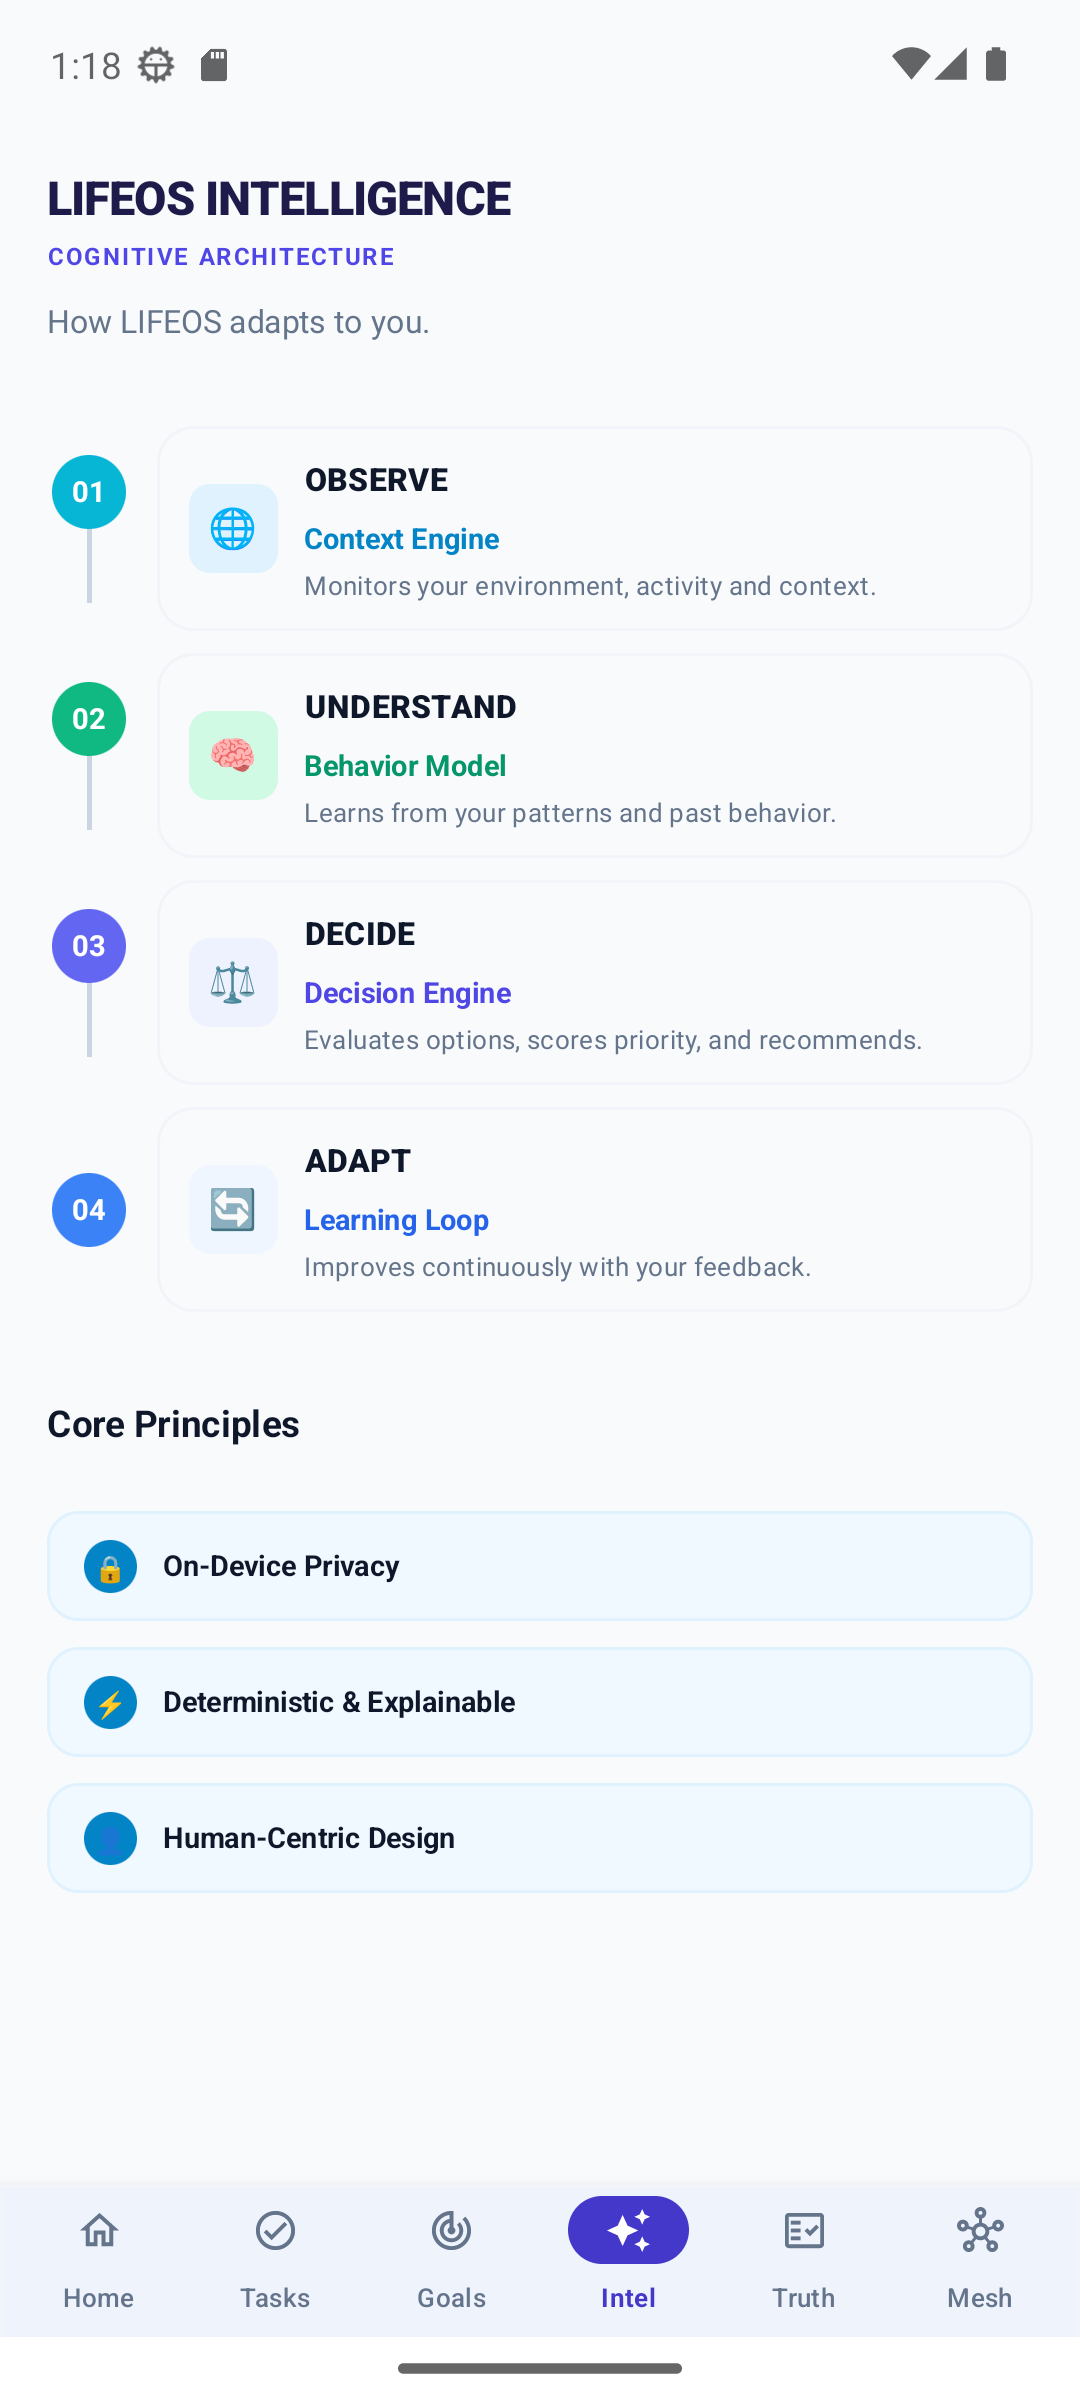
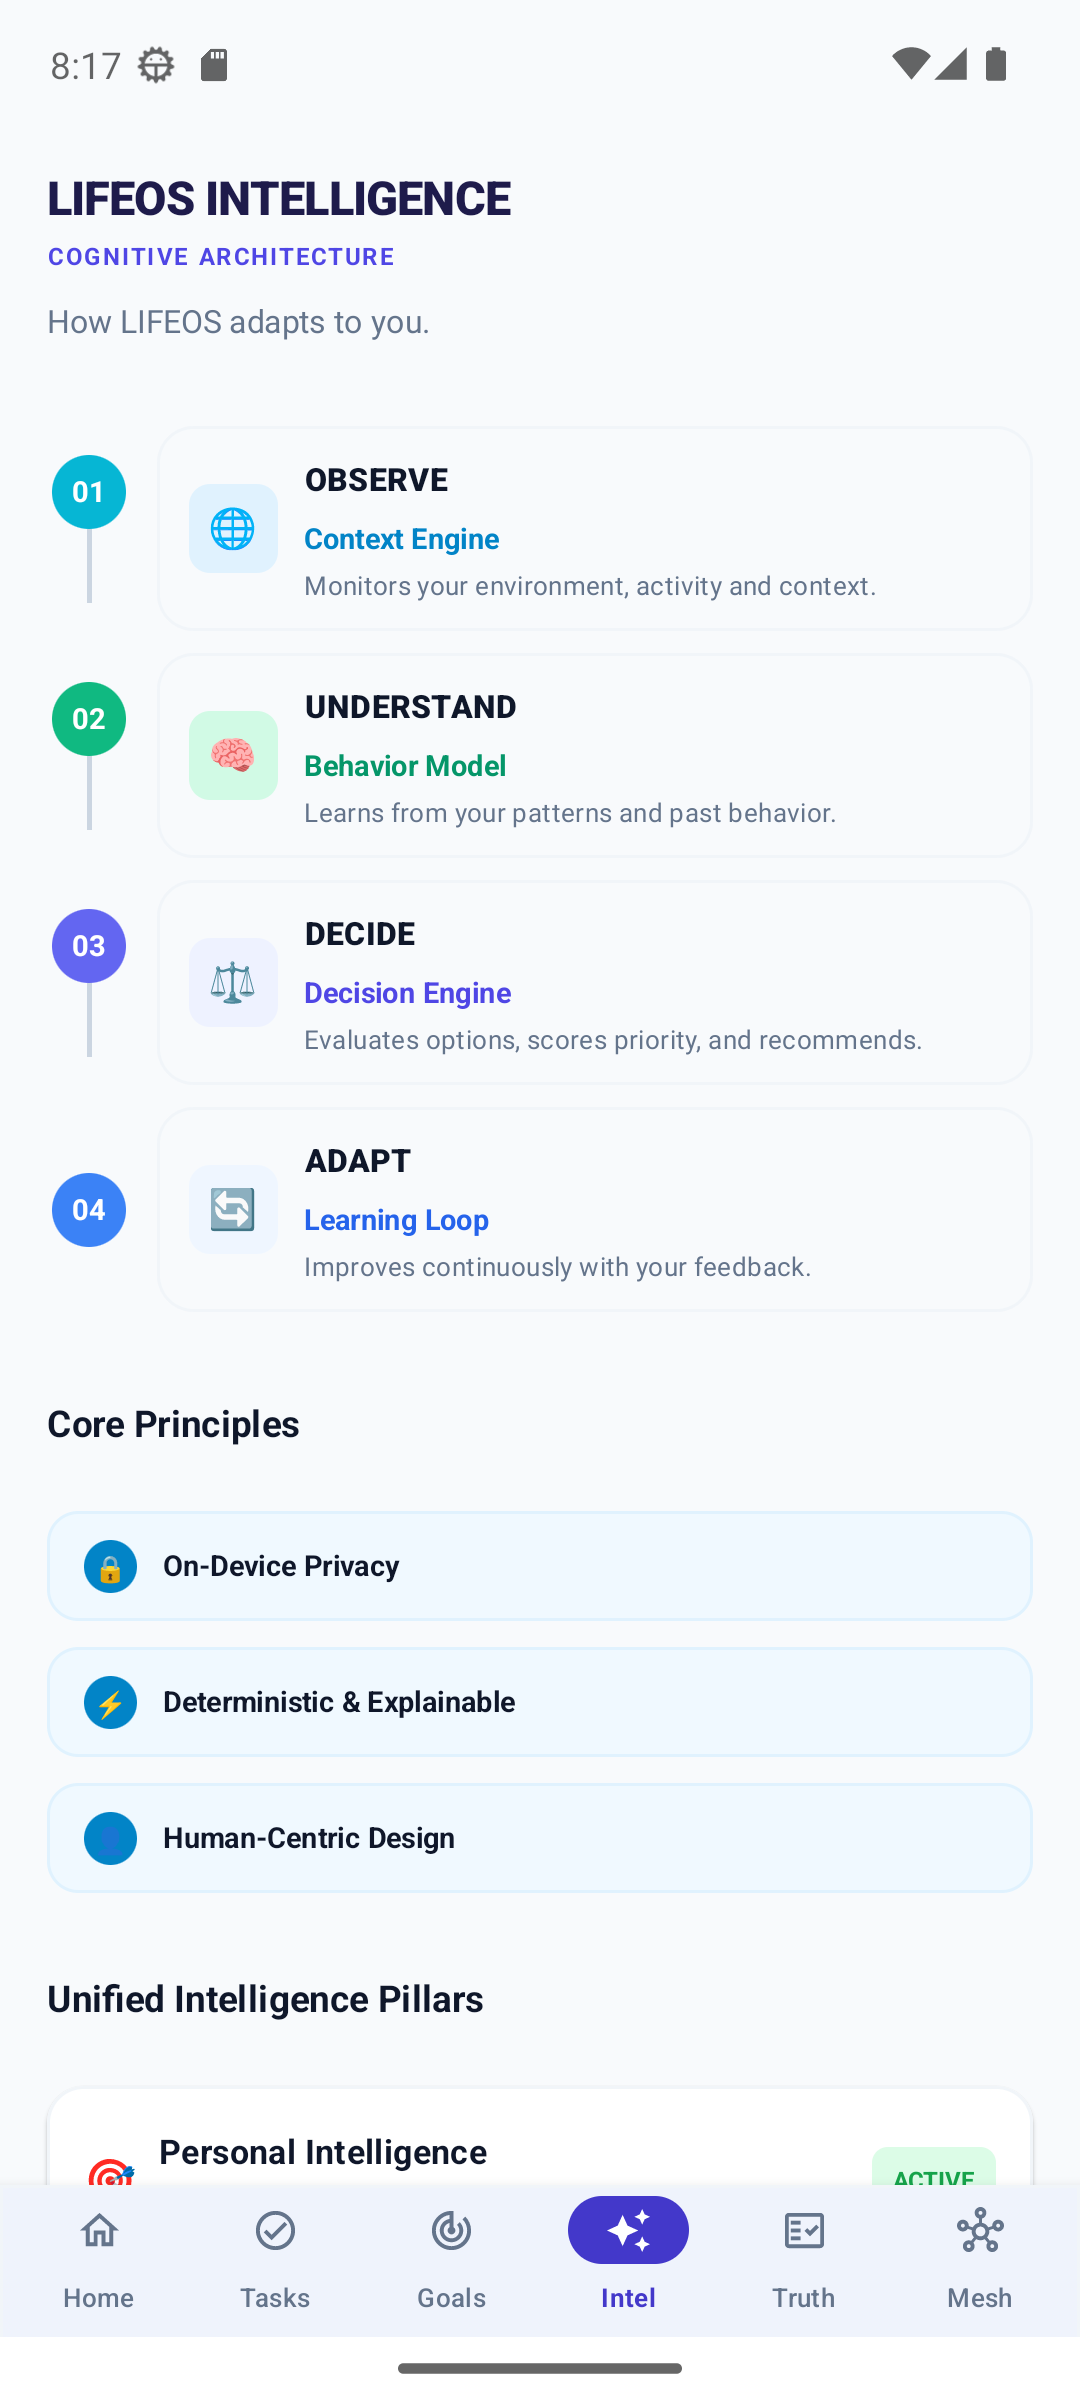
feat: unify LIFEOS intelligence experience and polish UI

diff --git a/app/src/main/java/com/mrashish18/lifeos/feature/goals/GoalsScreen.kt b/app/src/main/java/com/mrashish18/lifeos/feature/goals/GoalsScreen.kt
@@ -105,37 +105,100 @@ fun GoalsScreen(modifier: Modifier = Modifier) {
             }
         }
 
-        // 3. Strategic Objectives Cards matching Screen 4 reference
-        ReferenceGoalCard(
-            title = "Adaptive Autonomous Productivity",
-            tag = "Q4 2026",
-            tagBg = Color(0xFFDCFCE7),
-            tagColor = Color(0xFF16A34A),
-            description = "Turn daily execution into long-term compounding growth.",
-            progress = 0.30f
-        )
+        // 3. Strategic Objectives Cards matching Screen 4 reference with reactive filtering
+        val goals = remember {
+            listOf(
+                GoalItem(
+                    id = "goal_1",
+                    title = "Adaptive Autonomous Productivity",
+                    tag = "Q4 2026",
+                    tagBg = Color(0xFFDCFCE7),
+                    tagColor = Color(0xFF16A34A),
+                    description = "Turn daily execution into long-term compounding growth.",
+                    progress = 0.30f,
+                    isCompleted = false,
+                    milestones = "2 / 6 milestones"
+                ),
+                GoalItem(
+                    id = "goal_2",
+                    title = "Circadian Rhythm & Workload Pacing",
+                    tag = "Continuous",
+                    tagBg = Color(0xFFEFF6FF),
+                    tagColor = Color(0xFF2563EB),
+                    description = "Maintain healthy balance and prevent burnout.",
+                    progress = 0.60f,
+                    isCompleted = false,
+                    milestones = "3 / 5 milestones"
+                ),
+                GoalItem(
+                    id = "goal_3",
+                    title = "Deep Work Focus Habituation",
+                    tag = "Ongoing",
+                    tagBg = Color(0xFFF1F5F9),
+                    tagColor = Color(0xFF64748B),
+                    description = "Build consistent, distraction-free focus sessions.",
+                    progress = 0.20f,
+                    isCompleted = false,
+                    milestones = "1 / 5 milestones"
+                ),
+                GoalItem(
+                    id = "goal_4",
+                    title = "Core Architecture Baseline",
+                    tag = "Delivered",
+                    tagBg = Color(0xFFDCFCE7),
+                    tagColor = Color(0xFF16A34A),
+                    description = "Room persistence, Context Engine, and Decision Engine baseline established.",
+                    progress = 1.0f,
+                    isCompleted = true,
+                    milestones = "5 / 5 milestones"
+                ),
+                GoalItem(
+                    id = "goal_5",
+                    title = "Store-and-Forward Mesh Hardening",
+                    tag = "Delivered",
+                    tagBg = Color(0xFFDCFCE7),
+                    tagColor = Color(0xFF16A34A),
+                    description = "Hop-limited emergency mesh routing with deterministic deduplication.",
+                    progress = 1.0f,
+                    isCompleted = true,
+                    milestones = "4 / 4 milestones"
+                )
+            )
+        }
 
-        ReferenceGoalCard(
-            title = "Circadian Rhythm & Workload Pacing",
-            tag = "Continuous",
-            tagBg = Color(0xFFEFF6FF),
-            tagColor = Color(0xFF2563EB),
-            description = "Maintain healthy balance and prevent burnout.",
-            progress = 0.60f
-        )
+        val filteredGoals = when (selectedFilter) {
+            "Active" -> goals.filter { !it.isCompleted }
+            "Completed" -> goals.filter { it.isCompleted }
+            else -> goals
+        }
 
-        ReferenceGoalCard(
-            title = "Deep Work Focus Habituation",
-            tag = "Ongoing",
-            tagBg = Color(0xFFF1F5F9),
-            tagColor = Color(0xFF64748B),
-            description = "Build consistent, distraction-free focus sessions.",
-            progress = 0.20f
-        )
+        filteredGoals.forEach { goal ->
+            ReferenceGoalCard(
+                title = goal.title,
+                tag = goal.tag,
+                tagBg = goal.tagBg,
+                tagColor = goal.tagColor,
+                description = goal.description,
+                progress = goal.progress,
+                milestones = goal.milestones
+            )
+        }
 
         Spacer(modifier = Modifier.height(48.dp))
     }
 }
+
+private data class GoalItem(
+    val id: String,
+    val title: String,
+    val tag: String,
+    val tagBg: Color,
+    val tagColor: Color,
+    val description: String,
+    val progress: Float,
+    val isCompleted: Boolean,
+    val milestones: String
+)
 
 @Composable
 private fun ReferenceGoalCard(
@@ -144,7 +207,8 @@ private fun ReferenceGoalCard(
     tagBg: Color,
     tagColor: Color,
     description: String,
-    progress: Float
+    progress: Float,
+    milestones: String? = null
 ) {
     Surface(
         modifier = Modifier.fillMaxWidth(),
@@ -164,19 +228,34 @@ private fun ReferenceGoalCard(
 
             Spacer(modifier = Modifier.height(4.dp))
 
-            // Tag Pill
-            Box(
-                modifier = Modifier
-                    .clip(RoundedCornerShape(6.dp))
-                    .background(tagBg)
-                    .padding(horizontal = 7.dp, vertical = 2.dp)
+            // Tag Pill & Milestone Row
+            Row(
+                modifier = Modifier.fillMaxWidth(),
+                horizontalArrangement = Arrangement.SpaceBetween,
+                verticalAlignment = Alignment.CenterVertically
             ) {
-                Text(
-                    text = tag,
-                    fontSize = 9.sp,
-                    fontWeight = FontWeight.Bold,
-                    color = tagColor
-                )
+                Box(
+                    modifier = Modifier
+                        .clip(RoundedCornerShape(6.dp))
+                        .background(tagBg)
+                        .padding(horizontal = 7.dp, vertical = 2.dp)
+                ) {
+                    Text(
+                        text = tag,
+                        fontSize = 9.sp,
+                        fontWeight = FontWeight.Bold,
+                        color = tagColor
+                    )
+                }
+
+                milestones?.let { ms ->
+                    Text(
+                        text = ms,
+                        fontSize = 10.sp,
+                        fontWeight = FontWeight.Medium,
+                        color = Color(0xFF94A3B8)
+                    )
+                }
             }
 
             Spacer(modifier = Modifier.height(6.dp))

diff --git a/app/src/main/java/com/mrashish18/lifeos/feature/intelligence/IntelligenceScreen.kt b/app/src/main/java/com/mrashish18/lifeos/feature/intelligence/IntelligenceScreen.kt
@@ -248,9 +248,116 @@ fun IntelligenceScreen(modifier: Modifier = Modifier) {
             }
         }
 
+        Spacer(modifier = Modifier.height(10.dp))
+
+        // Unified Intelligence Pillars
+        Text(
+            text = "Unified Intelligence Pillars",
+            fontSize = 14.sp,
+            fontWeight = FontWeight.Bold,
+            color = Color(0xFF0F172A)
+        )
+
+        Spacer(modifier = Modifier.height(2.dp))
+
+        listOf(
+            PillarData(
+                icon = "🎯",
+                title = "Personal Intelligence",
+                subtitle = "Cognitive Optimization",
+                description = "Closed-loop adaptation: Context + Behavior + Decision Engine with deterministic explainability.",
+                badge = "ACTIVE",
+                badgeBg = Color(0xFFDCFCE7),
+                badgeColor = Color(0xFF16A34A)
+            ),
+            PillarData(
+                icon = "🛡",
+                title = "Trust Intelligence",
+                subtitle = "RealityCheck Engine",
+                description = "10-stage mathematical claim verification separating authoritative fact from inference.",
+                badge = "STANDBY",
+                badgeBg = Color(0xFFEEF2FF),
+                badgeColor = Color(0xFF4338CA)
+            ),
+            PillarData(
+                icon = "📡",
+                title = "Resilience Intelligence",
+                subtitle = "RescueMesh Offline Comms",
+                description = "Hop-limited store-and-forward mesh propagation when network infrastructure fails.",
+                badge = "ARMED",
+                badgeBg = Color(0xFFFEF3C7),
+                badgeColor = Color(0xFFD97706)
+            )
+        ).forEach { pillar ->
+            Surface(
+                modifier = Modifier.fillMaxWidth(),
+                shape = RoundedCornerShape(14.dp),
+                color = Color.White,
+                border = androidx.compose.foundation.BorderStroke(1.dp, Color(0xFFF1F5F9)),
+                shadowElevation = 1.dp
+            ) {
+                Column(modifier = Modifier.padding(14.dp)) {
+                    Row(
+                        modifier = Modifier.fillMaxWidth(),
+                        horizontalArrangement = Arrangement.SpaceBetween,
+                        verticalAlignment = Alignment.CenterVertically
+                    ) {
+                        Row(verticalAlignment = Alignment.CenterVertically) {
+                            Text(text = pillar.icon, fontSize = 16.sp)
+                            Spacer(modifier = Modifier.width(8.dp))
+                            Column {
+                                Text(
+                                    text = pillar.title,
+                                    fontSize = 13.sp,
+                                    fontWeight = FontWeight.Bold,
+                                    color = Color(0xFF0F172A)
+                                )
+                                Text(
+                                    text = pillar.subtitle,
+                                    fontSize = 10.sp,
+                                    fontWeight = FontWeight.SemiBold,
+                                    color = Color(0xFF6366F1)
+                                )
+                            }
+                        }
+                        Box(
+                            modifier = Modifier
+                                .clip(RoundedCornerShape(6.dp))
+                                .background(pillar.badgeBg)
+                                .padding(horizontal = 8.dp, vertical = 2.dp)
+                        ) {
+                            Text(
+                                text = pillar.badge,
+                                fontSize = 9.sp,
+                                fontWeight = FontWeight.Bold,
+                                color = pillar.badgeColor
+                            )
+                        }
+                    }
+                    Spacer(modifier = Modifier.height(6.dp))
+                    Text(
+                        text = pillar.description,
+                        fontSize = 11.sp,
+                        color = Color(0xFF64748B),
+                        lineHeight = 15.sp
+                    )
+                }
+            }
+        }
+
         Spacer(modifier = Modifier.height(48.dp))
     }
 }
+
+private data class PillarData(
+    val icon: String,
+    val title: String,
+    val subtitle: String,
+    val description: String,
+    val badge: String,
+    val badgeBg: Color,
+    val badgeColor: Color
+)
 
 private data class StageData(
     val num: String,

diff --git a/app/src/main/java/com/mrashish18/lifeos/feature/dashboard/DashboardScreen.kt b/app/src/main/java/com/mrashish18/lifeos/feature/dashboard/DashboardScreen.kt
@@ -97,6 +97,11 @@ fun DashboardScreen(
             )
         }
 
+        // Cross-Pillar Guardian Telemetry
+        item {
+            IntelligencePillarsStrip()
+        }
+
         // 3. FLAGSHIP CENTERPIECE: WHAT MATTERS NOW
         if (uiState.recommendations.isNotEmpty()) {
             items(uiState.recommendations, key = { it.id }) { rec ->
@@ -353,6 +358,74 @@ private fun TodayMomentumCluster(
                         .clip(CircleShape)
                         .background(Color(0xFF4338CA))
                 )
+            }
+        }
+    }
+}
+
+@Composable
+private fun IntelligencePillarsStrip() {
+    Row(
+        modifier = Modifier.fillMaxWidth(),
+        horizontalArrangement = Arrangement.spacedBy(8.dp)
+    ) {
+        Surface(
+            modifier = Modifier.weight(1f),
+            shape = RoundedCornerShape(10.dp),
+            color = Color.White,
+            border = androidx.compose.foundation.BorderStroke(1.dp, Color(0xFFF1F5F9))
+        ) {
+            Row(
+                modifier = Modifier.padding(horizontal = 10.dp, vertical = 7.dp),
+                verticalAlignment = Alignment.CenterVertically
+            ) {
+                Text(text = "🛡", fontSize = 12.sp)
+                Spacer(modifier = Modifier.width(6.dp))
+                Column {
+                    Text(
+                        text = "TRUTH ENGINE",
+                        fontSize = 8.sp,
+                        fontWeight = FontWeight.Bold,
+                        color = Color(0xFF64748B),
+                        letterSpacing = 0.5.sp
+                    )
+                    Text(
+                        text = "Standby • Armed",
+                        fontSize = 10.sp,
+                        fontWeight = FontWeight.SemiBold,
+                        color = Color(0xFF4338CA)
+                    )
+                }
+            }
+        }
+
+        Surface(
+            modifier = Modifier.weight(1f),
+            shape = RoundedCornerShape(10.dp),
+            color = Color.White,
+            border = androidx.compose.foundation.BorderStroke(1.dp, Color(0xFFF1F5F9))
+        ) {
+            Row(
+                modifier = Modifier.padding(horizontal = 10.dp, vertical = 7.dp),
+                verticalAlignment = Alignment.CenterVertically
+            ) {
+                Text(text = "📡", fontSize = 12.sp)
+                Spacer(modifier = Modifier.width(6.dp))
+                Column {
+                    Text(
+                        text = "RESCUEMESH",
+                        fontSize = 8.sp,
+                        fontWeight = FontWeight.Bold,
+                        color = Color(0xFF64748B),
+                        letterSpacing = 0.5.sp
+                    )
+                    Text(
+                        text = "Offline Ready",
+                        fontSize = 10.sp,
+                        fontWeight = FontWeight.SemiBold,
+                        color = Color(0xFF059669)
+                    )
+                }
             }
         }
     }
